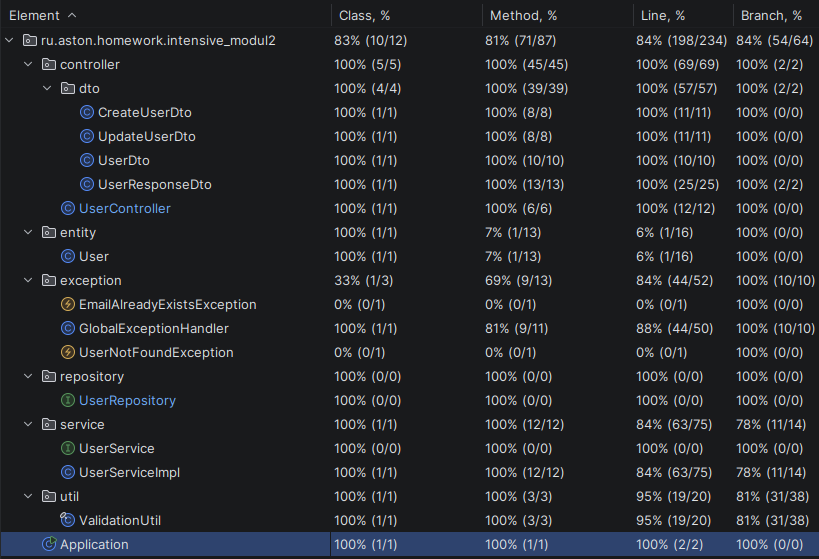
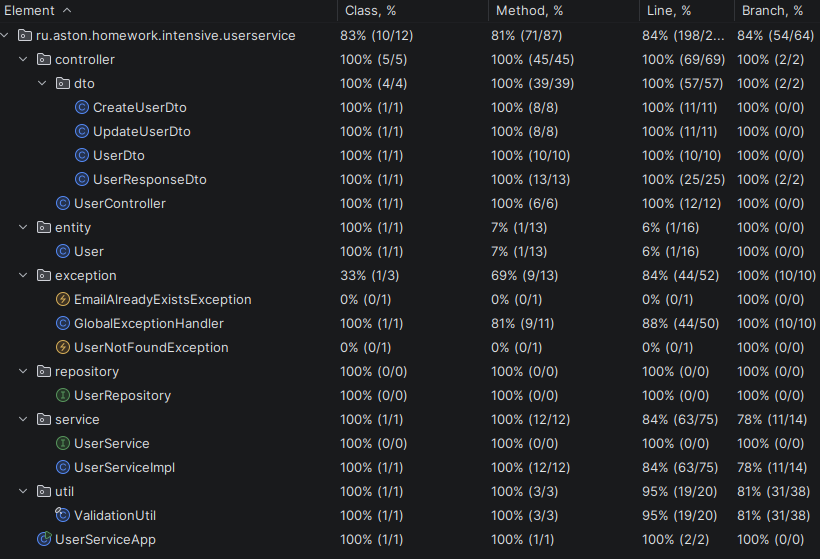
fix mentor's remarks

Changed region(s): [[0.0, 0.0, 1.0, 1.0]]

diff --git a/src/test/java/ru/aston/homework/intensive/userservice/repository/UserRepositoryTest.java b/src/test/java/ru/aston/homework/intensive/userservice/repository/UserRepositoryTest.java
@@ -1,25 +1,55 @@
 package ru.aston.homework.intensive.userservice.repository;
 
+import org.junit.jupiter.api.BeforeEach;
 import org.junit.jupiter.api.Test;
 import org.springframework.beans.factory.annotation.Autowired;
 import org.springframework.boot.test.context.SpringBootTest;
 import org.springframework.test.context.ActiveProfiles;
+import org.springframework.test.context.DynamicPropertyRegistry;
+import org.springframework.test.context.DynamicPropertySource;
 import org.springframework.transaction.annotation.Transactional;
+import org.testcontainers.containers.PostgreSQLContainer;
+import org.testcontainers.junit.jupiter.Container;
+import org.testcontainers.junit.jupiter.Testcontainers;
 import ru.aston.homework.intensive.userservice.entity.User;
 
 import java.time.LocalDateTime;
 import java.util.List;
 import java.util.Optional;
 
-import static org.junit.jupiter.api.Assertions.*;
+import static org.junit.jupiter.api.Assertions.assertEquals;
+import static org.junit.jupiter.api.Assertions.assertFalse;
+import static org.junit.jupiter.api.Assertions.assertNotNull;
+import static org.junit.jupiter.api.Assertions.assertTrue;
+
 
 @SpringBootTest
 @ActiveProfiles("test")
 @Transactional
+@Testcontainers
 class UserRepositoryTest {
+
+    @Container
+    static PostgreSQLContainer<?> postgreSQLContainer = new PostgreSQLContainer<>("postgres:15-alpine")
+            .withDatabaseName("testdb")
+            .withUsername("test")
+            .withPassword("test");
+
+    @DynamicPropertySource
+    static void configureProperties(DynamicPropertyRegistry registry) {
+        registry.add("spring.datasource.url", postgreSQLContainer::getJdbcUrl);
+        registry.add("spring.datasource.username", postgreSQLContainer::getUsername);
+        registry.add("spring.datasource.password", postgreSQLContainer::getPassword);
+    }
 
     @Autowired
     private UserRepository userRepository;
+
+    @BeforeEach
+    void setUp() {
+        // Очищаем базу данных перед каждым тестом
+        userRepository.deleteAll();
+    }
 
     @Test
     void testSaveUser() {
@@ -120,7 +150,6 @@ class UserRepositoryTest {
 
     @Test
     void testCountUsers() {
-        userRepository.deleteAll();
         User user1 = new User("User1", "user1@mail.ru", 20);
         User user2 = new User("User2", "user2@mail.ru", 30);
         userRepository.save(user1);
